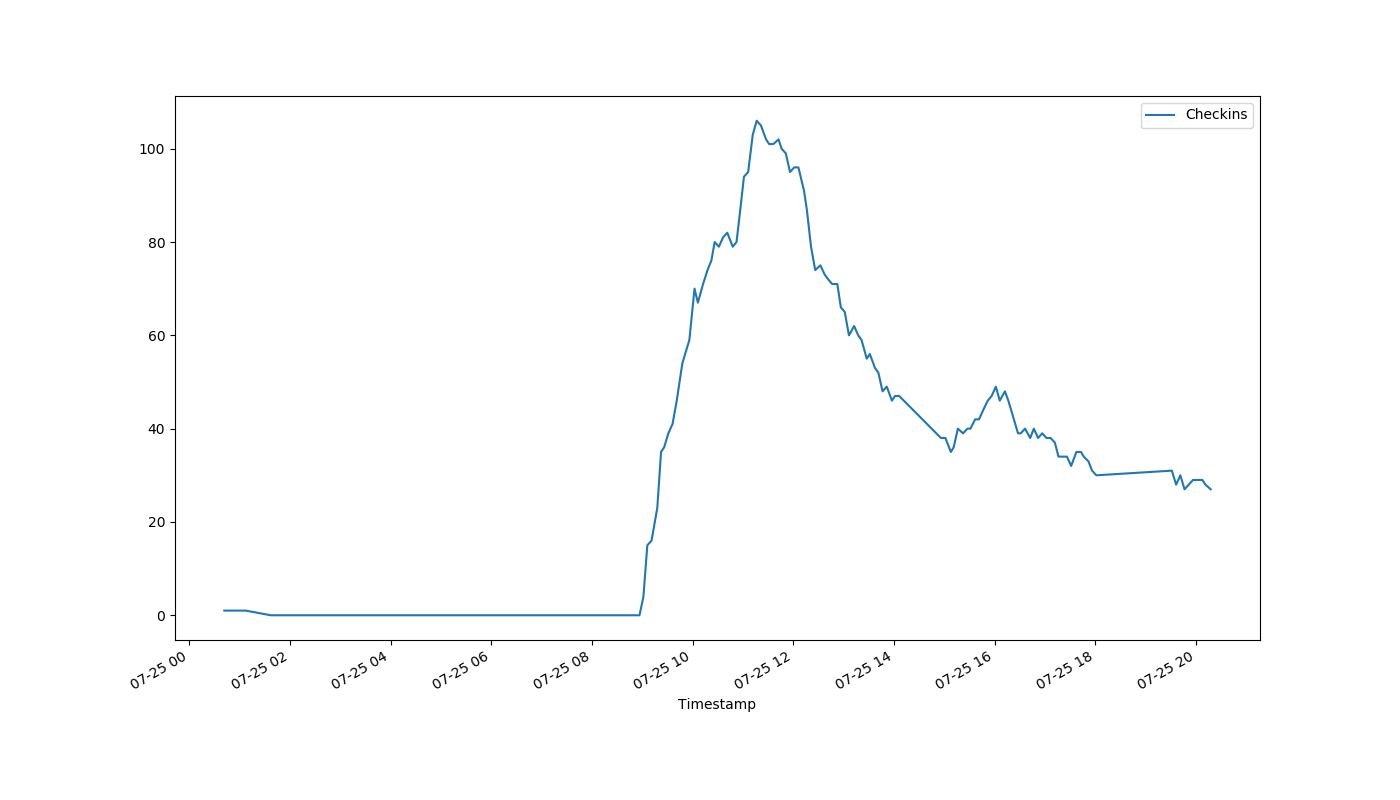
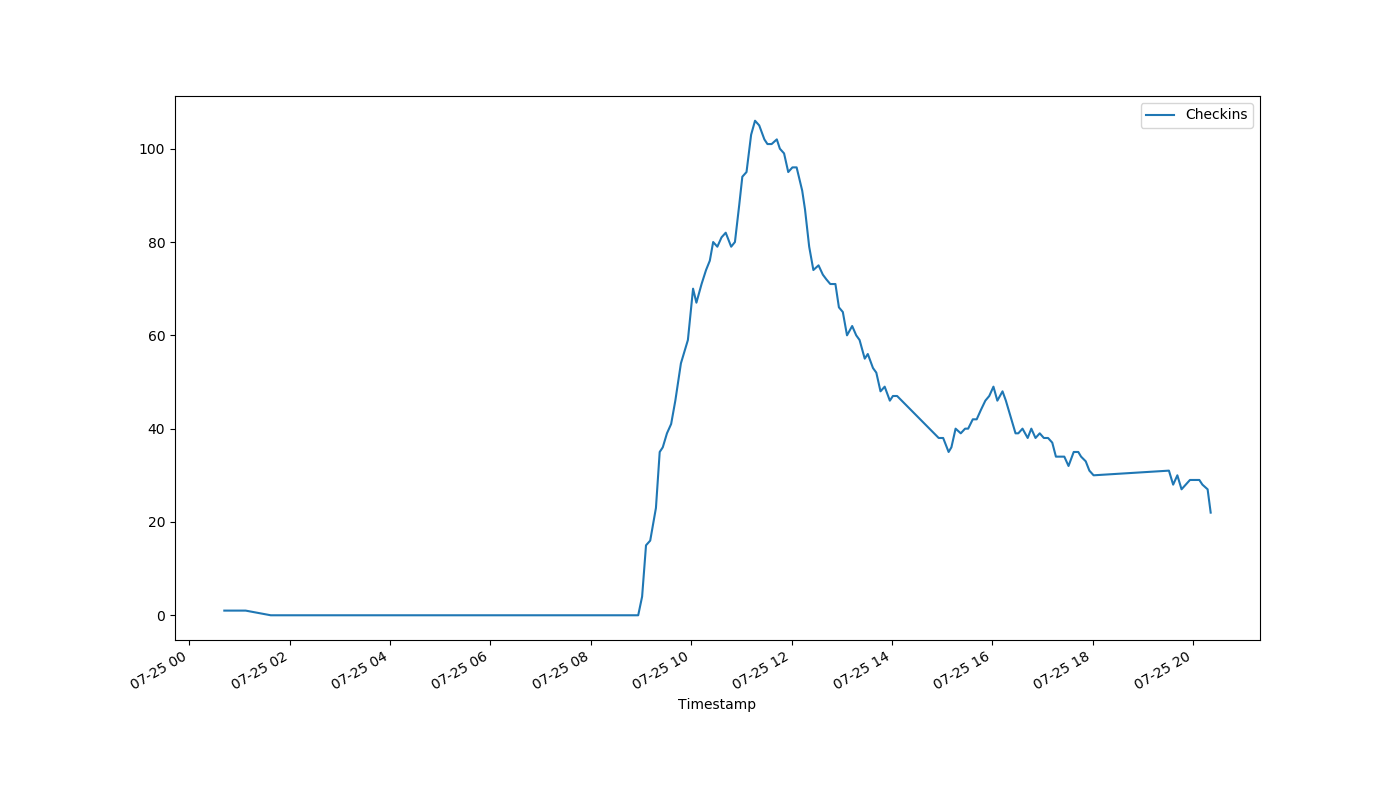
auto-Jul-25-20:22:02

diff --git a/index.html b/index.html
@@ -1,1 +1,1 @@
-<!DOCTYPE html><html><head><meta http-equiv="refresh" content="30"><link rel='stylesheet' href='holmcurrent.css'></head><body><p id='count'>27</p><div id='graph-wrap'><img id='graph' src='holmgraph-Jul-25.png'></div><p id='updated'>Last updated 20:18:07 / 20:17:21</p></body></html>
+<!DOCTYPE html><html><head><meta http-equiv="refresh" content="30"><link rel='stylesheet' href='holmcurrent.css'></head><body><p id='count'>22</p><div id='graph-wrap'><img id='graph' src='holmgraph-Jul-25.png'></div><p id='updated'>Last updated 20:21:07 / 20:21:02</p></body></html>
